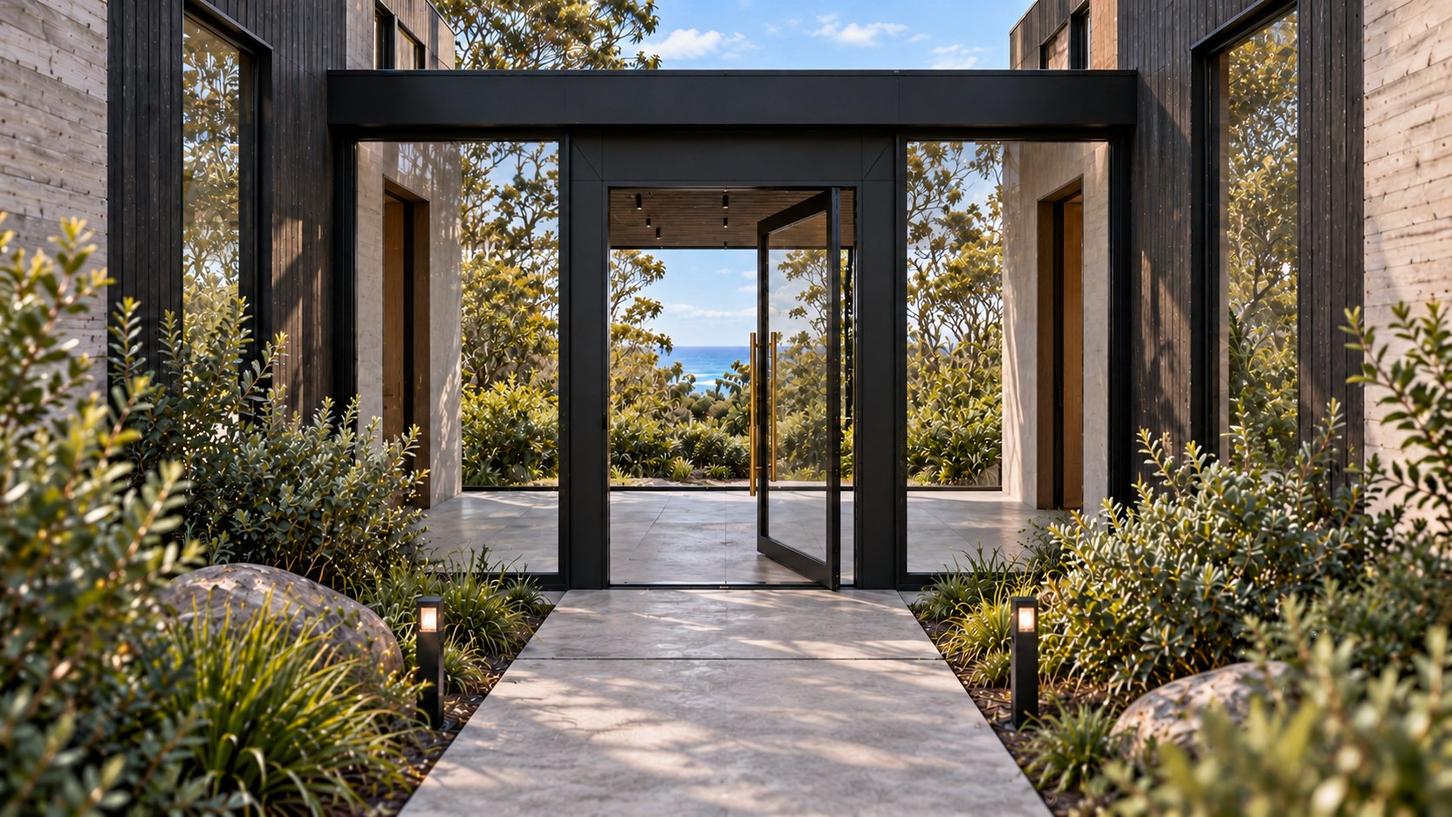
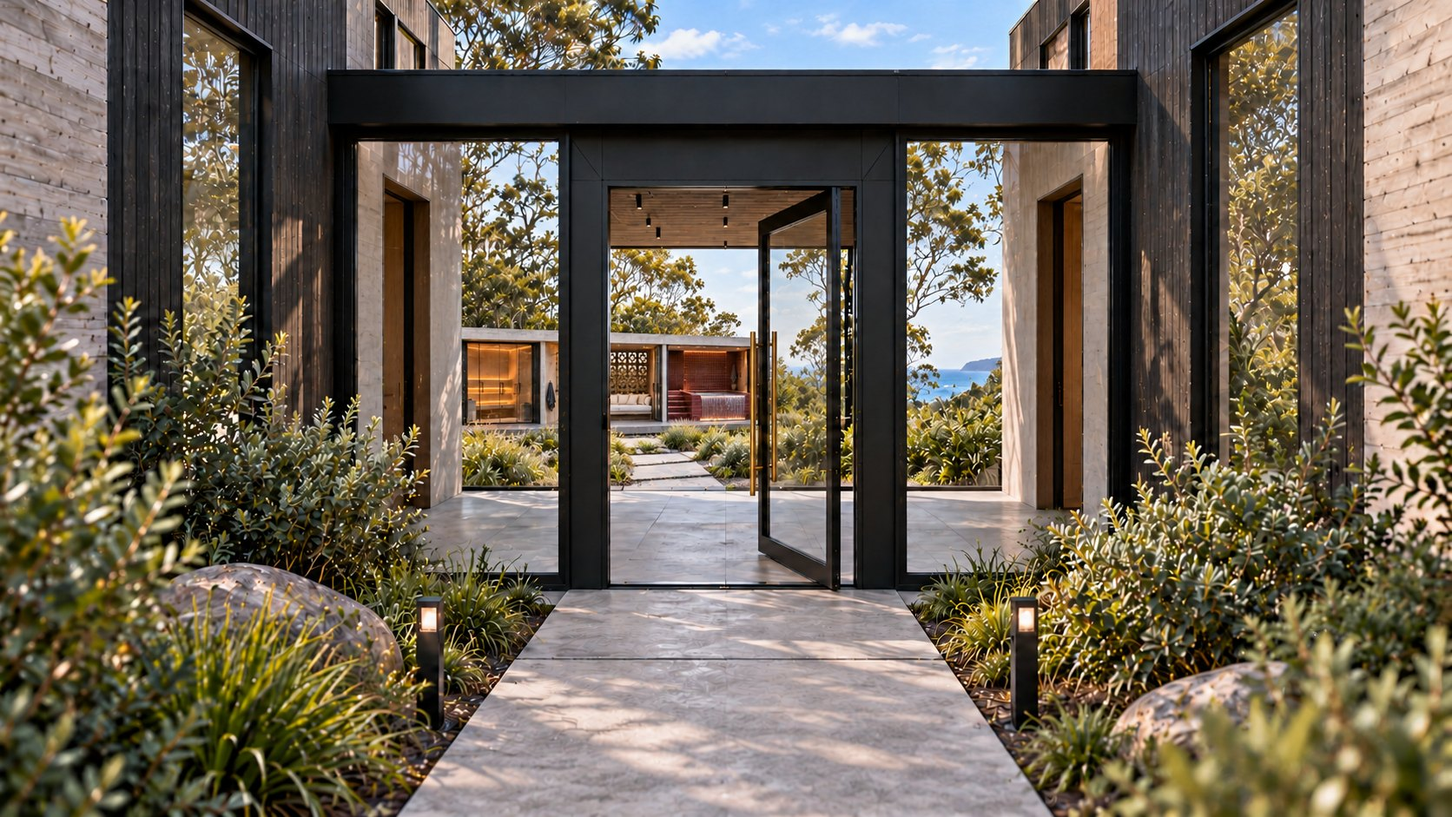
HAAVN BLACK display: Octa spec copy (3 bed, 2 bath, powder room, glass pods, garage pod), entry day and night, back yard, garage views
Copy now reads the home as 3 bedroom, 2 bathroom with a powder room, around 100 m2, 15 m2 glass welcome pod and walk-through glass pod, 6 by 7 m double garage pod. New views: entry portal day and night, the back yard walking to the wellness pod, the garage glass portal, the walk-through glass pod. Fixes the outside row going blank at night for views without a night render.

diff --git a/public/haavn-black-display/octa.html b/public/haavn-black-display/octa.html
@@ -1719,7 +1719,9 @@ html[data-model="standard"] .models__copy[data-model="studio"] {
 .has-scene .scene__pin .exterior[data-slot="1"],
 .has-scene .scene__pin .exterior[data-slot="2"],
 .has-scene .scene__pin .exterior[data-slot="3"],
-.has-scene .scene__pin .exterior[data-slot="4"] {
+.has-scene .scene__pin .exterior[data-slot="4"],
+.has-scene .scene__pin .exterior[data-slot="5"],
+.has-scene .scene__pin .exterior[data-slot="6"] {
   opacity: var(--arrive);
   translate: calc((1 - var(--arrive)) * 3rem) 0;
 }
@@ -3367,46 +3369,74 @@ html[data-model="standard"] .models__copy[data-model="studio"] {
   }
 
   /* the exteriors row, written for each panel count in use (Seth wrote it for three) */
-  .exteriors__track[data-n="5"] .exterior__img { width: 58.0cqw; left: calc((100% - 58.0cqw) * var(--win, 0.5)); }
-  .exteriors__track[data-n="5"] .exterior:not([data-slot]):nth-child(2) { left: 59.4%; width: 9.1%; }
-  .exteriors__track[data-n="5"] .exterior:not([data-slot]):nth-child(3) { left: 69.9%; width: 9.1%; }
-  .exteriors__track[data-n="5"] .exterior:not([data-slot]):nth-child(4) { left: 80.4%; width: 9.1%; }
-  .exteriors__track[data-n="5"] .exterior:not([data-slot]):nth-child(5) { left: 90.9%; width: 9.1%; }
-  .exteriors__track[data-n="5"] .exterior:not([data-slot]):nth-child(n + 6) { left: 100%; width: 0; opacity: 0; }
-  .exteriors__track[data-n="5"] .exterior[data-slot="0"], .exteriors__track[data-n="5"] .exterior[data-slot="1"], .exteriors__track[data-n="5"] .exterior[data-slot="2"], .exteriors__track[data-n="5"] .exterior[data-slot="3"], .exteriors__track[data-n="5"] .exterior[data-slot="4"] { opacity: 1; }
-  .exteriors__track[data-n="5"]:not([data-open]) .exterior[data-slot="0"],
-  .exteriors__track[data-n="5"][data-open="0"] .exterior[data-slot="0"] { left: 0.0%; width: 58.0%; }
-  .exteriors__track[data-n="5"]:not([data-open]) .exterior[data-slot="1"],
-  .exteriors__track[data-n="5"][data-open="0"] .exterior[data-slot="1"] { left: 59.4%; width: 9.1%; }
-  .exteriors__track[data-n="5"]:not([data-open]) .exterior[data-slot="2"],
-  .exteriors__track[data-n="5"][data-open="0"] .exterior[data-slot="2"] { left: 69.9%; width: 9.1%; }
-  .exteriors__track[data-n="5"]:not([data-open]) .exterior[data-slot="3"],
-  .exteriors__track[data-n="5"][data-open="0"] .exterior[data-slot="3"] { left: 80.4%; width: 9.1%; }
-  .exteriors__track[data-n="5"]:not([data-open]) .exterior[data-slot="4"],
-  .exteriors__track[data-n="5"][data-open="0"] .exterior[data-slot="4"] { left: 90.9%; width: 9.1%; }
-  .exteriors__track[data-n="5"][data-open="1"] .exterior[data-slot="0"] { left: 0.0%; width: 9.1%; }
-  .exteriors__track[data-n="5"][data-open="1"] .exterior[data-slot="1"] { left: 10.5%; width: 58.0%; }
-  .exteriors__track[data-n="5"][data-open="1"] .exterior[data-slot="2"] { left: 69.9%; width: 9.1%; }
-  .exteriors__track[data-n="5"][data-open="1"] .exterior[data-slot="3"] { left: 80.4%; width: 9.1%; }
-  .exteriors__track[data-n="5"][data-open="1"] .exterior[data-slot="4"] { left: 90.9%; width: 9.1%; }
-  .exteriors__track[data-n="5"][data-open="2"] .exterior[data-slot="0"] { left: 0.0%; width: 9.1%; }
-  .exteriors__track[data-n="5"][data-open="2"] .exterior[data-slot="1"] { left: 10.5%; width: 9.1%; }
-  .exteriors__track[data-n="5"][data-open="2"] .exterior[data-slot="2"] { left: 21.0%; width: 58.0%; }
-  .exteriors__track[data-n="5"][data-open="2"] .exterior[data-slot="3"] { left: 80.4%; width: 9.1%; }
-  .exteriors__track[data-n="5"][data-open="2"] .exterior[data-slot="4"] { left: 90.9%; width: 9.1%; }
-  .exteriors__track[data-n="5"][data-open="3"] .exterior[data-slot="0"] { left: 0.0%; width: 9.1%; }
-  .exteriors__track[data-n="5"][data-open="3"] .exterior[data-slot="1"] { left: 10.5%; width: 9.1%; }
-  .exteriors__track[data-n="5"][data-open="3"] .exterior[data-slot="2"] { left: 21.0%; width: 9.1%; }
-  .exteriors__track[data-n="5"][data-open="3"] .exterior[data-slot="3"] { left: 31.5%; width: 58.0%; }
-  .exteriors__track[data-n="5"][data-open="3"] .exterior[data-slot="4"] { left: 90.9%; width: 9.1%; }
-  .exteriors__track[data-n="5"][data-open="4"] .exterior[data-slot="0"] { left: 0.0%; width: 9.1%; }
-  .exteriors__track[data-n="5"][data-open="4"] .exterior[data-slot="1"] { left: 10.5%; width: 9.1%; }
-  .exteriors__track[data-n="5"][data-open="4"] .exterior[data-slot="2"] { left: 21.0%; width: 9.1%; }
-  .exteriors__track[data-n="5"][data-open="4"] .exterior[data-slot="3"] { left: 31.5%; width: 9.1%; }
-  .exteriors__track[data-n="5"][data-open="4"] .exterior[data-slot="4"] { left: 42.0%; width: 58.0%; }
-  .exteriors__track[data-n="5"] .exterior[data-slot="5"], .exteriors__track[data-n="5"] .exterior[data-slot="6"], .exteriors__track[data-n="5"] .exterior[data-slot="7"], .exteriors__track[data-n="5"] .exterior[data-slot="8"] { left: 100%; width: 0; opacity: 0; }
-  .exteriors__track[data-n="5"] .exterior[data-slot="9"] { left: 0; width: 0; opacity: 0; }
-  .exteriors__track[data-n="5"] .exterior[data-slot="8"] { transition: none; }
+  .exteriors__track[data-n="7"] .exterior__img { width: 52.0cqw; left: calc((100% - 52.0cqw) * var(--win, 0.5)); }
+  .exteriors__track[data-n="7"] .exterior:not([data-slot]):nth-child(2) { left: 53.4%; width: 6.6%; }
+  .exteriors__track[data-n="7"] .exterior:not([data-slot]):nth-child(3) { left: 61.4%; width: 6.6%; }
+  .exteriors__track[data-n="7"] .exterior:not([data-slot]):nth-child(4) { left: 69.4%; width: 6.6%; }
+  .exteriors__track[data-n="7"] .exterior:not([data-slot]):nth-child(5) { left: 77.4%; width: 6.6%; }
+  .exteriors__track[data-n="7"] .exterior:not([data-slot]):nth-child(6) { left: 85.4%; width: 6.6%; }
+  .exteriors__track[data-n="7"] .exterior:not([data-slot]):nth-child(7) { left: 93.4%; width: 6.6%; }
+  .exteriors__track[data-n="7"] .exterior:not([data-slot]):nth-child(n + 8) { left: 100%; width: 0; opacity: 0; }
+  .exteriors__track[data-n="7"] .exterior[data-slot="0"], .exteriors__track[data-n="7"] .exterior[data-slot="1"], .exteriors__track[data-n="7"] .exterior[data-slot="2"], .exteriors__track[data-n="7"] .exterior[data-slot="3"], .exteriors__track[data-n="7"] .exterior[data-slot="4"], .exteriors__track[data-n="7"] .exterior[data-slot="5"], .exteriors__track[data-n="7"] .exterior[data-slot="6"] { opacity: 1; }
+  .exteriors__track[data-n="7"]:not([data-open]) .exterior[data-slot="0"],
+  .exteriors__track[data-n="7"][data-open="0"] .exterior[data-slot="0"] { left: 0.0%; width: 52.0%; }
+  .exteriors__track[data-n="7"]:not([data-open]) .exterior[data-slot="1"],
+  .exteriors__track[data-n="7"][data-open="0"] .exterior[data-slot="1"] { left: 53.4%; width: 6.6%; }
+  .exteriors__track[data-n="7"]:not([data-open]) .exterior[data-slot="2"],
+  .exteriors__track[data-n="7"][data-open="0"] .exterior[data-slot="2"] { left: 61.4%; width: 6.6%; }
+  .exteriors__track[data-n="7"]:not([data-open]) .exterior[data-slot="3"],
+  .exteriors__track[data-n="7"][data-open="0"] .exterior[data-slot="3"] { left: 69.4%; width: 6.6%; }
+  .exteriors__track[data-n="7"]:not([data-open]) .exterior[data-slot="4"],
+  .exteriors__track[data-n="7"][data-open="0"] .exterior[data-slot="4"] { left: 77.4%; width: 6.6%; }
+  .exteriors__track[data-n="7"]:not([data-open]) .exterior[data-slot="5"],
+  .exteriors__track[data-n="7"][data-open="0"] .exterior[data-slot="5"] { left: 85.4%; width: 6.6%; }
+  .exteriors__track[data-n="7"]:not([data-open]) .exterior[data-slot="6"],
+  .exteriors__track[data-n="7"][data-open="0"] .exterior[data-slot="6"] { left: 93.4%; width: 6.6%; }
+  .exteriors__track[data-n="7"][data-open="1"] .exterior[data-slot="0"] { left: 0.0%; width: 6.6%; }
+  .exteriors__track[data-n="7"][data-open="1"] .exterior[data-slot="1"] { left: 8.0%; width: 52.0%; }
+  .exteriors__track[data-n="7"][data-open="1"] .exterior[data-slot="2"] { left: 61.4%; width: 6.6%; }
+  .exteriors__track[data-n="7"][data-open="1"] .exterior[data-slot="3"] { left: 69.4%; width: 6.6%; }
+  .exteriors__track[data-n="7"][data-open="1"] .exterior[data-slot="4"] { left: 77.4%; width: 6.6%; }
+  .exteriors__track[data-n="7"][data-open="1"] .exterior[data-slot="5"] { left: 85.4%; width: 6.6%; }
+  .exteriors__track[data-n="7"][data-open="1"] .exterior[data-slot="6"] { left: 93.4%; width: 6.6%; }
+  .exteriors__track[data-n="7"][data-open="2"] .exterior[data-slot="0"] { left: 0.0%; width: 6.6%; }
+  .exteriors__track[data-n="7"][data-open="2"] .exterior[data-slot="1"] { left: 8.0%; width: 6.6%; }
+  .exteriors__track[data-n="7"][data-open="2"] .exterior[data-slot="2"] { left: 16.0%; width: 52.0%; }
+  .exteriors__track[data-n="7"][data-open="2"] .exterior[data-slot="3"] { left: 69.4%; width: 6.6%; }
+  .exteriors__track[data-n="7"][data-open="2"] .exterior[data-slot="4"] { left: 77.4%; width: 6.6%; }
+  .exteriors__track[data-n="7"][data-open="2"] .exterior[data-slot="5"] { left: 85.4%; width: 6.6%; }
+  .exteriors__track[data-n="7"][data-open="2"] .exterior[data-slot="6"] { left: 93.4%; width: 6.6%; }
+  .exteriors__track[data-n="7"][data-open="3"] .exterior[data-slot="0"] { left: 0.0%; width: 6.6%; }
+  .exteriors__track[data-n="7"][data-open="3"] .exterior[data-slot="1"] { left: 8.0%; width: 6.6%; }
+  .exteriors__track[data-n="7"][data-open="3"] .exterior[data-slot="2"] { left: 16.0%; width: 6.6%; }
+  .exteriors__track[data-n="7"][data-open="3"] .exterior[data-slot="3"] { left: 24.0%; width: 52.0%; }
+  .exteriors__track[data-n="7"][data-open="3"] .exterior[data-slot="4"] { left: 77.4%; width: 6.6%; }
+  .exteriors__track[data-n="7"][data-open="3"] .exterior[data-slot="5"] { left: 85.4%; width: 6.6%; }
+  .exteriors__track[data-n="7"][data-open="3"] .exterior[data-slot="6"] { left: 93.4%; width: 6.6%; }
+  .exteriors__track[data-n="7"][data-open="4"] .exterior[data-slot="0"] { left: 0.0%; width: 6.6%; }
+  .exteriors__track[data-n="7"][data-open="4"] .exterior[data-slot="1"] { left: 8.0%; width: 6.6%; }
+  .exteriors__track[data-n="7"][data-open="4"] .exterior[data-slot="2"] { left: 16.0%; width: 6.6%; }
+  .exteriors__track[data-n="7"][data-open="4"] .exterior[data-slot="3"] { left: 24.0%; width: 6.6%; }
+  .exteriors__track[data-n="7"][data-open="4"] .exterior[data-slot="4"] { left: 32.0%; width: 52.0%; }
+  .exteriors__track[data-n="7"][data-open="4"] .exterior[data-slot="5"] { left: 85.4%; width: 6.6%; }
+  .exteriors__track[data-n="7"][data-open="4"] .exterior[data-slot="6"] { left: 93.4%; width: 6.6%; }
+  .exteriors__track[data-n="7"][data-open="5"] .exterior[data-slot="0"] { left: 0.0%; width: 6.6%; }
+  .exteriors__track[data-n="7"][data-open="5"] .exterior[data-slot="1"] { left: 8.0%; width: 6.6%; }
+  .exteriors__track[data-n="7"][data-open="5"] .exterior[data-slot="2"] { left: 16.0%; width: 6.6%; }
+  .exteriors__track[data-n="7"][data-open="5"] .exterior[data-slot="3"] { left: 24.0%; width: 6.6%; }
+  .exteriors__track[data-n="7"][data-open="5"] .exterior[data-slot="4"] { left: 32.0%; width: 6.6%; }
+  .exteriors__track[data-n="7"][data-open="5"] .exterior[data-slot="5"] { left: 40.0%; width: 52.0%; }
+  .exteriors__track[data-n="7"][data-open="5"] .exterior[data-slot="6"] { left: 93.4%; width: 6.6%; }
+  .exteriors__track[data-n="7"][data-open="6"] .exterior[data-slot="0"] { left: 0.0%; width: 6.6%; }
+  .exteriors__track[data-n="7"][data-open="6"] .exterior[data-slot="1"] { left: 8.0%; width: 6.6%; }
+  .exteriors__track[data-n="7"][data-open="6"] .exterior[data-slot="2"] { left: 16.0%; width: 6.6%; }
+  .exteriors__track[data-n="7"][data-open="6"] .exterior[data-slot="3"] { left: 24.0%; width: 6.6%; }
+  .exteriors__track[data-n="7"][data-open="6"] .exterior[data-slot="4"] { left: 32.0%; width: 6.6%; }
+  .exteriors__track[data-n="7"][data-open="6"] .exterior[data-slot="5"] { left: 40.0%; width: 6.6%; }
+  .exteriors__track[data-n="7"][data-open="6"] .exterior[data-slot="6"] { left: 48.0%; width: 52.0%; }
+  .exteriors__track[data-n="7"] .exterior[data-slot="7"], .exteriors__track[data-n="7"] .exterior[data-slot="8"], .exteriors__track[data-n="7"] .exterior[data-slot="9"], .exteriors__track[data-n="7"] .exterior[data-slot="10"], .exteriors__track[data-n="7"] .exterior[data-slot="11"], .exteriors__track[data-n="7"] .exterior[data-slot="12"] { left: 100%; width: 0; opacity: 0; }
+  .exteriors__track[data-n="7"] .exterior[data-slot="13"] { left: 0; width: 0; opacity: 0; }
+  .exteriors__track[data-n="7"] .exterior[data-slot="12"] { transition: none; }
   
 }
 
@@ -3447,6 +3477,8 @@ html[data-model="standard"] .models__copy[data-model="studio"] {
   .exteriors__track[data-open="2"] .exterior[data-slot="2"] .peek,
   .exteriors__track[data-open="3"] .exterior[data-slot="3"] .peek,
   .exteriors__track[data-open="4"] .exterior[data-slot="4"] .peek,
+  .exteriors__track[data-open="5"] .exterior[data-slot="5"] .peek,
+  .exteriors__track[data-open="6"] .exterior[data-slot="6"] .peek,
   .exterior:not([data-slot]):first-child .peek {
     opacity: 1;
     visibility: visible;
@@ -3692,8 +3724,8 @@ html[data-model="standard"] .models__copy[data-model="studio"] {
 .interiors[data-room="bedroom"] .finish__standard:not([data-room="bedroom"]),
 .interiors[data-room="dining"] .finish__copy:not([data-room="dining"]),
 .interiors[data-room="dining"] .finish__standard:not([data-room="dining"]),
-.interiors[data-room="bedroom2"] .finish__copy:not([data-room="bedroom2"]),
-.interiors[data-room="bedroom2"] .finish__standard:not([data-room="bedroom2"]) {
+.interiors[data-room="walkthrough"] .finish__copy:not([data-room="walkthrough"]),
+.interiors[data-room="walkthrough"] .finish__standard:not([data-room="walkthrough"]) {
   opacity: 0;
   visibility: hidden;
   transition:
@@ -7252,7 +7284,7 @@ html.lb-open .tray, html.lb-open .scene-cue { visibility: hidden; }
              one. Replace with the real
              words. -->
         <div class="launch__about" data-reveal>
-          <p>HAAVN BLACK Octa. A bedroom pavilion and a larger living pavilion, joined by a glass entry. Concept renders, indicative only.</p>
+          <p>HAAVN BLACK Octa. A 3 bedroom, 2 bathroom home of around 100 m², with a glass welcome pod and a double garage pod. Concept renders, indicative only.</p>
         </div>
 
         <h1 class="hero" id="hero-title">
@@ -7296,10 +7328,10 @@ html.lb-open .tray, html.lb-open .scene-cue { visibility: hidden; }
         <button class="swatch is-selected" type="button" data-variant="octa" aria-pressed="true">Octa</button>
       </div>
     </div>
-    <div class="exteriors__track" id="exteriors-track" data-n="5">
+    <div class="exteriors__track" id="exteriors-track" data-n="7">
       <figure class="exterior exterior--front">
-        <img class="exterior__img is-shown" data-variant="octa" data-time="day" src="img/octa/front-day.jpg" alt="Octa, the front with the glass entry, the garage and the car, in morning light" width="1672" height="941" loading="lazy" decoding="async">
-        <img class="exterior__img" data-variant="octa" data-time="night" data-src="img/octa/front-night.jpg" alt="Octa, the front with the glass entry, the garage and the car, after dark" width="1672" height="941" aria-hidden="true" loading="lazy" decoding="async">
+        <img class="exterior__img is-shown" data-variant="octa" data-time="day" src="img/octa/front-day.jpg" alt="Octa, the front with the glass welcome pod, the garage pod and the car, in morning light" width="1672" height="941" loading="lazy" decoding="async">
+        <img class="exterior__img" data-variant="octa" data-time="night" data-src="img/octa/front-night.jpg" alt="Octa, the front with the glass welcome pod, the garage pod and the car, after dark" width="1672" height="941" aria-hidden="true" loading="lazy" decoding="async">
         <button class="peek peek--clock" type="button" data-clock="view"
                 aria-pressed="false" aria-label="Show this view after dark">
           <svg viewBox="0 0 24 24" aria-hidden="true" focusable="false">
@@ -7314,7 +7346,14 @@ html.lb-open .tray, html.lb-open .scene-cue { visibility: hidden; }
         </button>
       </figure>
       <figure class="exterior exterior--entrance">
-        <img class="exterior__img" data-variant="octa" data-time="day" data-src="img/octa/entry.jpg" alt="Octa, the glass pivot entry between the two pavilions, looking through to the sea" width="1672" height="941" aria-hidden="true" loading="lazy" decoding="async">
+        <img class="exterior__img" data-variant="octa" data-time="day" data-src="img/octa/entry.jpg" alt="Octa, the glass welcome pod and its pivot door, looking through to the wellness pod and the sea" width="1672" height="941" aria-hidden="true" loading="lazy" decoding="async">
+        <img class="exterior__img" data-variant="octa" data-time="night" data-src="img/octa/entry-night.jpg" alt="Octa, the glass welcome pod and its pivot door after dark, with the wellness pod lit beyond" width="1672" height="941" aria-hidden="true" loading="lazy" decoding="async">
+        <button class="peek peek--clock" type="button" data-clock="view"
+                aria-pressed="false" aria-label="Show this view after dark">
+          <svg viewBox="0 0 24 24" aria-hidden="true" focusable="false">
+            <path class="peek__moon" d="M20 14.5A8.5 8.5 0 0 1 9.5 4a8.5 8.5 0 1 0 10.5 10.5Z"/>
+          </svg>
+        </button>
         <button class="peek" type="button" aria-label="View this render larger">
           <svg viewBox="0 0 24 24" aria-hidden="true" focusable="false">
             <path d="M2 12s3.7-6 10-6 10 6 10 6-3.7 6-10 6-10-6-10-6Z"/>
@@ -7322,8 +7361,17 @@ html.lb-open .tray, html.lb-open .scene-cue { visibility: hidden; }
           </svg>
         </button>
       </figure>
-      <figure class="exterior exterior--aerial">
-        <img class="exterior__img" data-variant="octa" data-time="day" data-src="img/octa/aerial.jpg" alt="Octa, from above, the two pavilions, the glass link to the garage and the sea beyond" width="1672" height="941" aria-hidden="true" loading="lazy" decoding="async">
+      <figure class="exterior exterior--garage">
+        <img class="exterior__img" data-variant="octa" data-src="img/octa/garage.jpg" alt="Octa, the garage pod and the walk-through glass pod from the driveway, with the home on the left and the silver Porsche outside" width="1672" height="941" aria-hidden="true" loading="lazy" decoding="async">
+        <button class="peek" type="button" aria-label="View this render larger">
+          <svg viewBox="0 0 24 24" aria-hidden="true" focusable="false">
+            <path d="M2 12s3.7-6 10-6 10 6 10 6-3.7 6-10 6-10-6-10-6Z"/>
+            <circle class="peek__pupil" cx="12" cy="12" r="2.5"/>
+          </svg>
+        </button>
+      </figure>
+      <figure class="exterior exterior--walk">
+        <img class="exterior__img" data-variant="octa" data-src="img/octa/walk.jpg" alt="Octa, the back yard at sunset, seen from the main bedroom: a woman in a white robe walks the deck and garden path to the wellness pod, with the sea beyond" width="1672" height="941" aria-hidden="true" loading="lazy" decoding="async">
         <button class="peek" type="button" aria-label="View this render larger">
           <svg viewBox="0 0 24 24" aria-hidden="true" focusable="false">
             <path d="M2 12s3.7-6 10-6 10 6 10 6-3.7 6-10 6-10-6-10-6Z"/>
@@ -7332,7 +7380,7 @@ html.lb-open .tray, html.lb-open .scene-cue { visibility: hidden; }
         </button>
       </figure>
       <figure class="exterior exterior--yard">
-        <img class="exterior__img" data-variant="octa" data-time="day" data-src="img/octa/yard.jpg" alt="Octa, the back yard at sunset, with the wellness pavilion, its sauna, daybed and burgundy spa, and the sea beyond" width="1672" height="941" aria-hidden="true" loading="lazy" decoding="async">
+        <img class="exterior__img" data-variant="octa" data-src="img/octa/yard.jpg" alt="Octa, the wellness pavilion in the back yard at sunset, with its sauna, daybed and burgundy spa, and the sea beyond" width="1672" height="941" aria-hidden="true" loading="lazy" decoding="async">
         <button class="peek" type="button" aria-label="View this render larger">
           <svg viewBox="0 0 24 24" aria-hidden="true" focusable="false">
             <path d="M2 12s3.7-6 10-6 10 6 10 6-3.7 6-10 6-10-6-10-6Z"/>
@@ -7341,7 +7389,16 @@ html.lb-open .tray, html.lb-open .scene-cue { visibility: hidden; }
         </button>
       </figure>
       <figure class="exterior exterior--terrace">
-        <img class="exterior__img" data-variant="octa" data-time="day" data-src="img/octa/terrace.jpg" alt="Octa, from the wellness terrace looking back across the garden to the two pavilions and the glass entry" width="1672" height="941" aria-hidden="true" loading="lazy" decoding="async">
+        <img class="exterior__img" data-variant="octa" data-src="img/octa/terrace.jpg" alt="Octa, from the wellness terrace looking back across the garden to the two pavilions and the glass welcome pod" width="1672" height="941" aria-hidden="true" loading="lazy" decoding="async">
+        <button class="peek" type="button" aria-label="View this render larger">
+          <svg viewBox="0 0 24 24" aria-hidden="true" focusable="false">
+            <path d="M2 12s3.7-6 10-6 10 6 10 6-3.7 6-10 6-10-6-10-6Z"/>
+            <circle class="peek__pupil" cx="12" cy="12" r="2.5"/>
+          </svg>
+        </button>
+      </figure>
+      <figure class="exterior exterior--aerial">
+        <img class="exterior__img" data-variant="octa" data-src="img/octa/aerial.jpg" alt="Octa, from above, the two pavilions, the glass welcome pod, the walk-through glass pod to the garage pod and the sea beyond" width="1672" height="941" aria-hidden="true" loading="lazy" decoding="async">
         <button class="peek" type="button" aria-label="View this render larger">
           <svg viewBox="0 0 24 24" aria-hidden="true" focusable="false">
             <path d="M2 12s3.7-6 10-6 10 6 10 6-3.7 6-10 6-10-6-10-6Z"/>
@@ -7353,9 +7410,9 @@ html.lb-open .tray, html.lb-open .scene-cue { visibility: hidden; }
 
     <aside class="finish" aria-label="About the exterior">
       <div class="finish__copy is-shown" data-variant="octa">
-        <p class="finish__name">Two pavilions, one entry</p>
-        <p class="finish__story">A bedroom pavilion and a larger living pavilion in off-form, board-formed concrete and charcoal timber, joined by a glazed entry with a single glass pivot door, a double garage linked by a glass walkway, and a wellness pavilion in the back yard.</p>
-        <p class="finish__key"><span>Off-form concrete</span><span>Glass pivot entry, gold handle</span></p>
+        <p class="finish__name">Glass welcome pod, garage pod</p>
+        <p class="finish__story">A 3 bedroom, 2 bathroom home with a powder room, around 100 m², in off-form concrete and charcoal timber. You arrive through a 15 m² glass welcome pod with a single glass pivot door, and a 15 m² walk-through glass pod links the home to a 6 by 7 metre double garage pod. Shown with the HAAVN BLACK wellness pod in the back yard.</p>
+        <p class="finish__key"><span>3 bed, 2 bath, powder room</span><span>Glass pods 15 m² each, garage pod 6&nbsp;by&nbsp;7&nbsp;m</span></p>
       </div>
     </aside>
   </section>
@@ -7370,7 +7427,7 @@ html.lb-open .tray, html.lb-open .scene-cue { visibility: hidden; }
        new names. -->
   <section class="interiors rule-top" id="interiors" aria-labelledby="interiors-title">
     <div class="palettes__intro">
-      <p class="palettes__line">One home in <strong>two pavilions</strong>, a place to sleep and a larger place to live.</p>
+      <p class="palettes__line"><strong>3 bedrooms, 2 bathrooms and a powder room</strong>, with the kitchen, living and dining in one room.</p>
       <p class="palettes__line">Concrete, <strong>blackened timber</strong>, burgundy and bronze glass, open to the garden and the sea.</p>
     </div>
     <div class="section-head">
@@ -7382,9 +7439,9 @@ html.lb-open .tray, html.lb-open .scene-cue { visibility: hidden; }
 
     <div class="interiors__track" id="interiors-track-octa" data-n="5" data-for="octa">
       <figure class="interior interior--living">
-        <img class="interior__img is-shown" data-variant="octa" src="img/octa/living.jpg" alt="The larger home: living, kitchen and dining in one room, looking back from the sofa" loading="lazy" decoding="async">
+        <img class="interior__img is-shown" data-variant="octa" src="img/octa/living.jpg" alt="The kitchen, living and dining in one room, looking back from the sofa" loading="lazy" decoding="async">
         <figcaption class="interior__caption">
-          <span class="interior__label">Living, kitchen and dining</span>
+          <span class="interior__label">Kitchen, living and dining</span>
         </figcaption>
         <button class="peek" type="button" aria-label="View this render larger">
           <svg viewBox="0 0 24 24" aria-hidden="true" focusable="false">
@@ -7418,9 +7475,9 @@ html.lb-open .tray, html.lb-open .scene-cue { visibility: hidden; }
         </button>
       </figure>
       <figure class="interior interior--bedroom">
-        <img class="interior__img" data-variant="octa" data-src="img/octa/bedroom.jpg" alt="The bedroom pavilion, looking out to the garden and the sea" aria-hidden="true" loading="lazy" decoding="async">
+        <img class="interior__img" data-variant="octa" data-src="img/octa/bedroom.jpg" alt="The main bedroom, looking out to the garden and the sea" aria-hidden="true" loading="lazy" decoding="async">
         <figcaption class="interior__caption">
-          <span class="interior__label">Bedroom</span>
+          <span class="interior__label">Main bedroom</span>
         </figcaption>
         <button class="peek" type="button" aria-label="View this render larger">
           <svg viewBox="0 0 24 24" aria-hidden="true" focusable="false">
@@ -7429,10 +7486,10 @@ html.lb-open .tray, html.lb-open .scene-cue { visibility: hidden; }
           </svg>
         </button>
       </figure>
-      <figure class="interior interior--bedroom2">
-        <img class="interior__img" data-variant="octa" data-src="img/octa/bedroom2.jpg" alt="The bedroom, looking across the garden to the wellness pod at sunset" aria-hidden="true" loading="lazy" decoding="async">
+      <figure class="interior interior--walkthrough">
+        <img class="interior__img" data-variant="octa" data-src="img/octa/walkthrough.jpg" alt="The walk-through glass pod from the home to the garage pod, looking in at the car" aria-hidden="true" loading="lazy" decoding="async">
         <figcaption class="interior__caption">
-          <span class="interior__label">Bedroom, to the wellness pod</span>
+          <span class="interior__label">Walk-through glass pod</span>
         </figcaption>
         <button class="peek" type="button" aria-label="View this render larger">
           <svg viewBox="0 0 24 24" aria-hidden="true" focusable="false">
@@ -7445,8 +7502,8 @@ html.lb-open .tray, html.lb-open .scene-cue { visibility: hidden; }
 
     <aside class="finish" aria-label="About this room">
       <div class="finish__copy is-shown" data-variant="octa" data-room="living">
-        <p class="finish__name">Living, kitchen and dining</p>
-        <p class="finish__story">Living, kitchen and dining in one open room under a black timber batten ceiling, a white boucle sofa on a burgundy rug, a stone dining table and the island kitchen beyond.</p>
+        <p class="finish__name">Kitchen, living and dining</p>
+        <p class="finish__story">Kitchen, living and dining in one open room under a black timber batten ceiling, a white boucle sofa on a burgundy rug, a stone dining table and the island kitchen beyond.</p>
         <p class="finish__key"><span>White boucle and burgundy</span><span>Black timber batten ceiling</span></p>
       </div>
       <div class="finish__copy" data-variant="octa" data-room="kitchen">
@@ -7460,14 +7517,14 @@ html.lb-open .tray, html.lb-open .scene-cue { visibility: hidden; }
         <p class="finish__key"><span>Stone dining table</span><span>Burgundy upholstered chairs</span></p>
       </div>
       <div class="finish__copy" data-variant="octa" data-room="bedroom">
-        <p class="finish__name">Bedroom</p>
-        <p class="finish__story">A bedroom that opens to the garden and the sea, with a burgundy headboard and throw, blackened timber wardrobes with a lit display bay and a black batten ceiling.</p>
+        <p class="finish__name">Main bedroom</p>
+        <p class="finish__story">The main bedroom opens to the garden and the sea, with a burgundy headboard and throw, blackened timber wardrobes with a lit display bay and a black batten ceiling.</p>
         <p class="finish__key"><span>Blackened timber wardrobes</span><span>Burgundy headboard and throw</span></p>
       </div>
-      <div class="finish__copy" data-variant="octa" data-room="bedroom2">
-        <p class="finish__name">Bedroom, to the wellness pod</p>
-        <p class="finish__story">The bedroom doors open across the garden to the wellness pod, a sauna, a steam room, a daybed and a raised spa, at sunset.</p>
-        <p class="finish__key"><span>Garden path to the wellness pod</span><span>Sunset outlook</span></p>
+      <div class="finish__copy" data-variant="octa" data-room="walkthrough">
+        <p class="finish__name">Walk-through glass pod</p>
+        <p class="finish__story">A 15 m² walk-through glass pod links the home to the garage pod: glass walls, a black timber ceiling and a concrete floor with no steps, ending at a pivot door into the garage.</p>
+        <p class="finish__key"><span>Walk-through glass pod, 15 m²</span><span>Garage pod, 6 by 7 m</span></p>
       </div>
     </aside>
   </section>

diff --git a/public/haavn-black-display/index.html b/public/haavn-black-display/index.html
@@ -837,7 +837,7 @@ button.pr__row:hover .n { color: var(--atrium-gold); }
   var $ = function (s, r) { return (r || document).querySelector(s) }, $$ = function (s, r) { return [].slice.call((r || document).querySelectorAll(s)) };
   var Q = new URLSearchParams(location.search), TV = Q.has('tv');
   var APP = /^https?:/.test(location.protocol), EMBED = false; try { EMBED = (window.parent !== window) } catch (e) { EMBED = true }
-  var SOLV = '20261016d';
+  var SOLV = '20261016e';
   if (TV) document.body.classList.add('tv');
 
   /* ── the homes ───────────────────────────────────────────────────────── */
@@ -856,7 +856,7 @@ button.pr__row:hover .n { color: var(--atrium-gold); }
     vela: { n: 'VELA', series: 'ess', page: 'essentials.html', line: '165.1 m² · 3 bed' },
     terra: { n: 'TERRA', series: 'ess', page: 'essentials.html', line: '247.2 m² · 3 bed' },
     vista: { n: 'VISTA', series: 'ess', page: 'essentials.html', line: '317.8 m² · 5 bed' },
-    octa: { n: 'Octa', series: 'concept', page: 'octa.html', line: 'Two pavilions' },
+    octa: { n: 'Octa', series: 'concept', page: 'octa.html', line: '3 bed · 2 bath' },
     pod: { n: 'Wellness pod', series: 'concept', page: 'pod.html', line: 'Sauna · steam · spa' },
     hubs: { n: 'Wellness hubs', series: 'concept', page: 'hubs.html', line: 'Four looks' },
     concept: { n: 'Studio concept', series: 'concept', page: 'concept.html', line: 'Heavy · Light' }

diff --git a/src/pages/HaavnDisplaySuite.tsx b/src/pages/HaavnDisplaySuite.tsx
@@ -27,7 +27,7 @@ export default function HaavnDisplaySuite({ onClose }: { onClose: () => void }) 
 
   return (
     <div style={{ position: 'fixed', inset: 0, zIndex: 700, background: '#0b0b0c', display: 'flex', flexDirection: 'column', paddingTop: 'env(safe-area-inset-top)', paddingBottom: 'env(safe-area-inset-bottom)', overflow: 'hidden', overscrollBehavior: 'none' }}>
-      <iframe title="HAAVN BLACK Display" src="/haavn-black-display/index.html?v=20261016d" allow="fullscreen; autoplay"
+      <iframe title="HAAVN BLACK Display" src="/haavn-black-display/index.html?v=20261016e" allow="fullscreen; autoplay"
         style={{ flex: 1, width: '100%', height: '100%', border: 0, display: 'block' }} />
     </div>
   )
